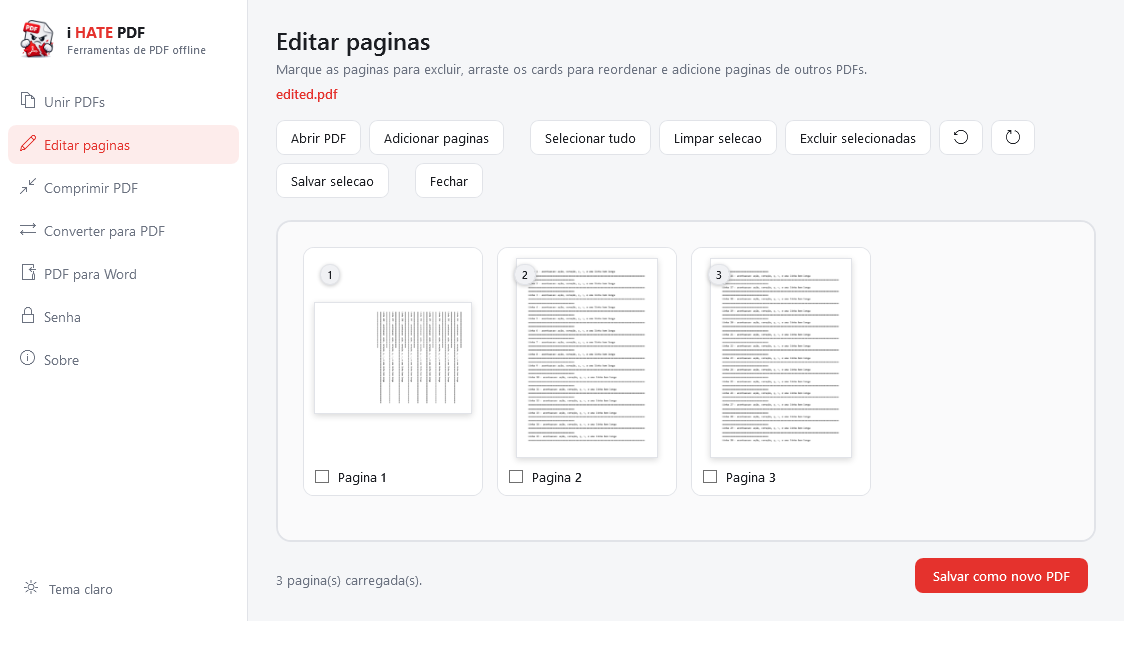
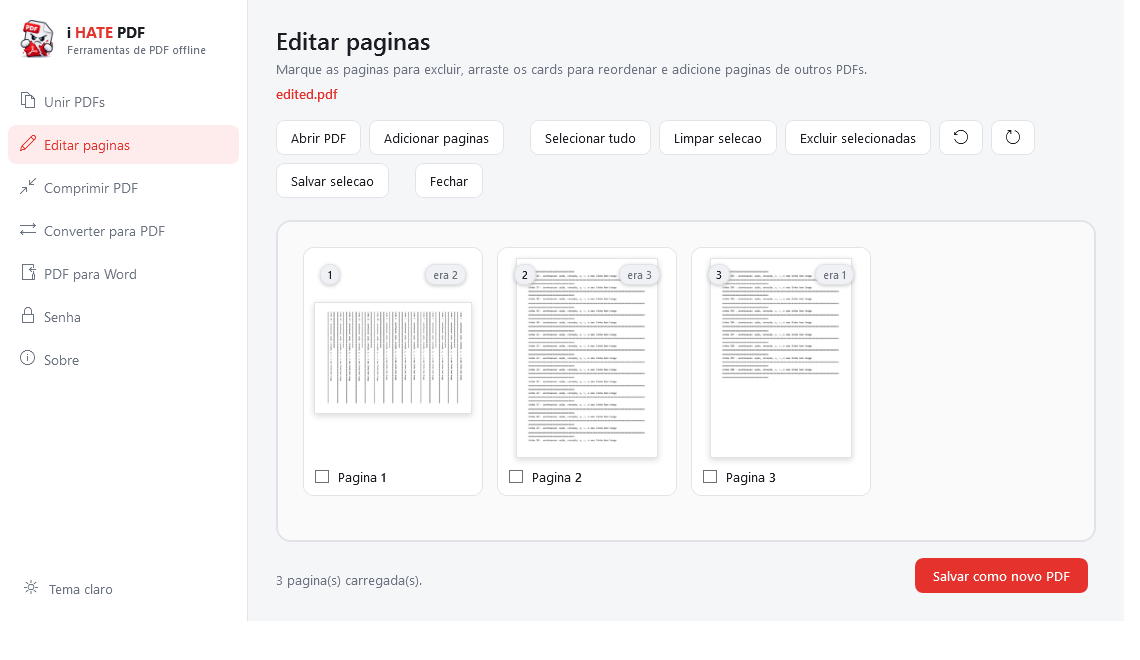
docs: README e capturas refeitos para o estado atual do app
As capturas eram da versao 1.1 e mostravam quatro telas; o app tem sete.
Todas foram refeitas com conteudo real em cada tela (fila carregada,
pagina girada e reordenada, modo album ligado, compressao no modo que
encolhe), mais uma do tema escuro.

O README passa a cobrir o que existe hoje: comprimir com os numeros
medidos, senha, imagens nos dois modos, PDF para imagens, girar e salvar
selecao, menu de contexto, preferencias, instalador e atualizacao
automatica. A lista de armadilhas ganhou as descobertas recentes - giro
somado ao /Rotate existente, o padrao null da ponte do PasswordBox e o
custo de decodificar miniatura de imagem sem DecodePixelWidth.

As capturas rodaram com APPDATA apontando para uma pasta temporaria, para
o harness nao sobrescrever as preferencias reais de quem usa o app.

diff --git a/README.md b/README.md
@@ -4,7 +4,7 @@
 
 ### O PDF começou. Você termina.
 
-Unir, reorganizar e converter PDFs no Windows — **sem upload, sem conta, sem marca d'água**.<br/>
+Sete ferramentas de PDF no Windows — **sem upload, sem conta, sem marca d'água**.<br/>
 Nenhum arquivo sai da sua máquina.
 
 <br/>
@@ -26,43 +26,25 @@ Todo site de PDF grátis cobra o mesmo pedágio: subir seu contrato para o servi
 **i HATE PDF** não tem servidor. É um `.exe`, você arrasta, ele resolve.
 
 <div align="center">
-<img src="docs/screenshots/unir.png" alt="Tela de unir PDFs com capas em grade" width="820" />
+<img src="docs/screenshots/unir.png" alt="Tela de unir PDFs com capas em grade" width="860" />
 </div>
 
 ---
 
-## O que ele faz
-
-<table>
-<tr>
-<td width="33%" valign="top">
+## As ferramentas
 
 ### 🧩 Unir
-Arraste vários PDFs. Cada um vira um **card com a capa visível** e um número que é literalmente a posição dele no documento final. Arrastou o card, mudou a ordem.
 
-</td>
-<td width="33%" valign="top">
+Arraste vários PDFs. Cada um vira um **card com a capa visível** e um selo com a posição dele no documento final. Arrastou o card, mudou a ordem.
 
 ### ✂ Editar páginas
-Abra um PDF e veja **cada página como miniatura**. Marque as que morrem, arraste as que ficam, **gire** as tortas, puxe páginas de outro arquivo. Cada card mostra a **posição nova** e a **original** (`era 3`). **Salvar seleção** grava só as páginas marcadas num arquivo à parte — é assim que se divide um PDF aqui. O original nunca é tocado.
 
-</td>
-<td width="33%" valign="top">
+Abra um PDF e veja **cada página como miniatura**. Marque as que morrem, arraste as que ficam, **gire** as tortas (90° para cada lado), puxe páginas de outro arquivo.
 
-### 🔁 Converter
-`TXT` e **imagens** (JPG, PNG, WEBP, BMP, GIF, TIFF) viram PDF direto — e as imagens podem virar **um arquivo cada ou um PDF único**. No modo PDF único a fila vira uma **grade de miniaturas arrastáveis**, com o número da página em cada card — a ordem que você vê é a ordem do documento.<br/>
-`DOCX` e `XLSX` passam pelo **LibreOffice headless**.
-
-</td>
-</tr>
-</table>
-
-### 🔐 Senha
-
-Coloca senha de abertura (AES-256) ou tira, sempre gerando uma cópia. **Remover exige saber a senha** — o app não quebra proteção, ele regrava sem criptografia para quem já tem acesso.
+Cada card mostra a **posição nova** e a **original** (`era 3`), então dá para conferir a reorganização antes de gravar. **Salvar seleção** grava só as páginas marcadas num arquivo à parte — é assim que se divide um PDF aqui, sem precisar apagar nada. O original nunca é tocado.
 
 <div align="center">
-<img src="docs/screenshots/senha.png" alt="Tela de senha" width="820" />
+<img src="docs/screenshots/editar.png" alt="Editor visual de páginas" width="860" />
 </div>
 
 ### 🗜 Comprimir
@@ -70,7 +52,7 @@ Coloca senha de abertura (AES-256) ou tira, sempre gerando uma cópia. **Remover
 Dois modos, porque não existe um só que sirva para tudo:
 
 - **Otimizar** reescreve o arquivo com os fluxos comprimidos. O texto continua selecionável; o ganho depende de quanto o gerador original desperdiçou.
-- **Reduzir imagens** rasteriza cada página em JPEG (200 / 150 / 110 dpi). É o que realmente encolhe digitalizações — mas o documento **deixa de ter texto selecionável**, e o app avisa antes quantos arquivos da fila perderiam isso.
+- **Reduzir imagens** rasteriza cada página em JPEG (200 / 150 / 110 dpi). É o que realmente encolhe digitalizações — mas o documento **deixa de ter texto selecionável**, e o app conta quantos arquivos da fila perderiam isso e avisa antes.
 
 Medido num PDF de 8 páginas cheias de imagem:
 
@@ -81,24 +63,40 @@ Medido num PDF de 8 páginas cheias de imagem:
 | Reduzir · equilibrada | 776 KB | 100 KB | **87%** |
 | Reduzir · máxima | 776 KB | 60 KB | **92%** |
 
-> Se a cópia não ficar menor que a entrada, o **original é mantido** e o app diz "já estava otimizado" — comprimir nunca devolve um arquivo pior. E a saída sai com sufixo `-comprimido`: seu arquivo original nunca é sobrescrito.
+> Se a cópia não ficar menor que a entrada, o **original é mantido** e o item diz "já estava otimizado" — comprimir nunca devolve um arquivo pior. A saída sai com sufixo `-comprimido`: seu arquivo original nunca é sobrescrito.
 
 <div align="center">
-<img src="docs/screenshots/comprimir.png" alt="Tela de compressão" width="820" />
+<img src="docs/screenshots/comprimir.png" alt="Tela de compressão" width="860" />
 </div>
 
-### 📤 E o caminho de volta: PDF → Word
+### 🔁 Converter para PDF
 
-Recupera o conteúdo de um PDF em `.docx` editável (via Writer do LibreOffice), `.txt` puro (extração nativa com PdfPig) ou **imagens PNG/JPG**, uma por página, numa pasta com o nome do documento. Só o `.docx` depende do LibreOffice.
+`TXT` e **imagens** (JPG, PNG, WEBP, BMP, GIF, TIFF) são convertidos direto pelo app. `DOCX` e `XLSX` passam pelo **LibreOffice headless**, em fila, com o erro de cada arquivo na mão.
 
-> **Honestidade sobre o formato:** o PDF descreve *posições de glifos*, não parágrafos. O texto sai bem; layout complexo — colunas, tabelas, caixas — é reconstruído por aproximação. E um PDF **escaneado não tem texto algum**: viraria um documento vazio, porque este app não faz OCR.
+As imagens podem virar **um arquivo cada ou um PDF único**. No modo PDF único a fila vira uma **grade de miniaturas arrastáveis**, com o número da página em cada card — a ordem que você vê é a ordem do documento.
 
 <div align="center">
-<img src="docs/screenshots/pdf-para-word.png" alt="Tela PDF para Word" width="820" />
+<img src="docs/screenshots/converter.png" alt="Imagens em grade arrastável" width="860" />
 </div>
 
+### 📤 PDF para outros formatos
+
+Um PDF vira `.docx` editável (via Writer do LibreOffice), `.txt` puro (extração nativa com PdfPig) ou **imagens PNG/JPG**, uma por página, numa pasta com o nome do documento. Só o `.docx` depende do LibreOffice.
+
+> **Honestidade sobre o formato:** o PDF descreve *posições de glifos*, não parágrafos. O texto sai bem; layout complexo — colunas, tabelas, caixas — é reconstruído por aproximação. E um PDF **escaneado não tem texto algum**: o app avisa em vez de entregar um arquivo vazio, porque não faz OCR.
+
 <div align="center">
-<img src="docs/screenshots/editar.png" alt="Editor visual de páginas" width="820" />
+<img src="docs/screenshots/pdf-para-word.png" alt="Tela de exportação" width="860" />
+</div>
+
+### 🔐 Senha
+
+Coloca senha de abertura (**AES-256**) ou tira, sempre gerando uma cópia. Confirmação de senha só no modo proteger, onde errar deixaria o arquivo inacessível para sempre.
+
+> **Remover exige saber a senha.** O app não quebra proteção: ele regrava sem criptografia para quem já tem acesso.
+
+<div align="center">
+<img src="docs/screenshots/senha.png" alt="Tela de senha" width="860" />
 </div>
 
 ---
@@ -108,6 +106,12 @@ Recupera o conteúdo de um PDF em `.docx` editável (via Writer do LibreOffice),
 **No menu do botão direito.** A tela **Sobre** liga as entradas do Explorer: *Editar páginas*, *Comprimir* e *Unir* em arquivos PDF, *Converter para PDF* em imagens. O registro é feito em `HKEY_CURRENT_USER` — **sem UAC** — e o mesmo botão desfaz tudo.
 
 **Ele lembra o que você escolheu.** Tema, pastas de saída de cada tela, modo de compressão, formato de exportação: tudo volta como estava, em `%AppData%\IHatePdf\settings.json`. Fica fora da pasta do app de propósito — a atualização automática troca o executável, e configuração ao lado dele se perderia.
+
+**Tema claro e escuro**, alternados no canto inferior esquerdo.
+
+<div align="center">
+<img src="docs/screenshots/tema-escuro.png" alt="O mesmo editor no tema escuro" width="860" />
+</div>
 
 ---
 
@@ -126,20 +130,20 @@ Os dois são **self-contained**: não precisa instalar o .NET.
 
 Instala em `%LocalAppData%\Programs\IHatePdf` — **de propósito**, e não em `Program Files`. Em `Program Files` o app não conseguiria se sobrescrever, e a atualização automática pararia de funcionar. Como consequência, o app instala **sem pedir UAC**.
 
-Durante a instalação ele oferece instalar o **LibreOffice** (necessário para DOCX, XLSX e PDF → Word), baixando a versão estável e rodando em modo silencioso. A tarefa só aparece se o LibreOffice ainda não estiver na máquina. O Windows pede elevação **uma vez** nesse passo — não existe instalação do LibreOffice para todos os usuários sem isso.
+Durante a instalação ele oferece instalar o **LibreOffice**, baixando a versão estável e rodando em modo silencioso. A tarefa só aparece se o LibreOffice ainda não estiver na máquina, e o Windows pede elevação **uma vez** nesse passo.
 
-Se você desmarcar a opção, ou se o download falhar, a instalação do app continua normalmente: o aviso e o botão **"Baixar e instalar LibreOffice"** continuam na tela **PDF para Word** para quando você quiser — inclusive se um dia desinstalar o LibreOffice sem querer.
+Se você desmarcar a opção, ou se o download falhar, a instalação do app continua normalmente: o botão **"Baixar e instalar LibreOffice"** continua na tela **PDF para outros formatos** para quando você quiser — inclusive se um dia desinstalar o LibreOffice sem querer.
 
-> `.txt` **não** precisa de LibreOffice: a extração de texto é nativa. Sem o LibreOffice, tudo funciona menos DOCX/XLSX → PDF e PDF → `.docx`.
+> O LibreOffice é necessário só para **DOCX/XLSX → PDF** e **PDF → .docx**. Todo o resto — unir, editar, comprimir, senha, imagens, `.txt` — funciona sem ele.
 
 ### Atualizar
 
 A tela **Sobre** verifica as releases deste repositório e, se houver versão nova, **atualiza sozinha**: baixa o pacote, se substitui e reabre já na versão nova. Nada de zip para você extrair na mão.
 
-> Um `.exe` em execução não pode sobrescrever a si mesmo, então o app grava um script temporário que espera o processo encerrar, troca o arquivo e reabre. O executável atual vira `.old` antes da cópia e é restaurado se algo falhar no meio. Se o app estiver numa pasta sem permissão de escrita (Program Files, por exemplo), ele avisa e manda você para a página da release em vez de tentar e falhar.
+> Um `.exe` em execução não pode sobrescrever a si mesmo, então o app grava um script temporário que espera o processo encerrar, troca o arquivo e reabre. O executável atual vira `.old` antes da cópia e é restaurado se algo falhar no meio. Se o app estiver numa pasta sem permissão de escrita, ele avisa e manda você para a página da release em vez de tentar e falhar.
 
 <div align="center">
-<img src="docs/screenshots/sobre.png" alt="Tela Sobre com verificação de atualizações" width="820" />
+<img src="docs/screenshots/sobre.png" alt="Tela Sobre" width="860" />
 </div>
 
 ---
@@ -167,36 +171,38 @@ dotnet publish -c Release -r win-x64 --self-contained true -p:PublishSingleFile=
 MVVM estrito com `CommunityToolkit.Mvvm` — nenhuma View tem lógica no code-behind, nem o drag & drop.
 
 ```
-Models/         PageReference, PdfFileItem, PageItem, ConversionItem
-Services/       PdfService · ConversionService (+converters) · PdfCompressionService
-                PdfExportService · ImageToPdfService · PdfSecurityService
-                SettingsService · ShellIntegrationService
-                LibreOfficeRunner · PdfRenderService · WindowsFontResolver
-                GitHubUpdateService · DialogService
-ViewModels/     Main · Merge · Editor · Compress · Converter · PdfToWord
-                Security · About
+Models/         PageReference · PdfFileItem · PageItem
+                ConversionItem · CompressionItem
+Services/       PdfService · ConversionService (+converters)
+                PdfCompressionService · PdfExportService · PdfSecurityService
+                ImageToPdfService · ImageThumbnailService · PdfRenderService
+                LibreOfficeRunner · WindowsFontResolver
+                SettingsService · ShellIntegrationService · GitHubUpdateService
+ViewModels/     Main · Merge · Editor · Compress · Converter
+                PdfToWord · Security · About
 Views/          MergeView · EditorView · CompressView · ConverterView
                 PdfToWordView · SecurityView · AboutView
-Behaviors/      FileDropBehavior (drop do Explorer → ICommand) · conversores
+Behaviors/      FileDropBehavior · PasswordBoxBehavior · conversores
 Themes/         Light · Dark · Styles
 ```
 
 | Peça | Biblioteca | Papel |
 |---|---|---|
-| Estrutura do PDF | [PDFsharp 6](https://www.nuget.org/packages/PDFsharp) | unir, extrair, remover e reordenar páginas |
-| Miniaturas | [PDFtoImage](https://www.nuget.org/packages/PDFtoImage) (PDFium) | renderiza cada página como bitmap |
-| MVVM | [CommunityToolkit.Mvvm](https://www.nuget.org/packages/CommunityToolkit.Mvvm) | bindings, comandos, messenger |
-| Arrastar cards | [gong-wpf-dragdrop](https://www.nuget.org/packages/gong-wpf-dragdrop) | reordenação dentro das listas |
-| DOCX / XLSX | LibreOffice `--headless` | Office → PDF e PDF → Word (`writer_pdf_import`) |
-| Extração de texto | [PdfPig](https://www.nuget.org/packages/PdfPig) | PDF → TXT e detecção de texto, sem dependência externa |
+| Estrutura do PDF | [PDFsharp 6](https://www.nuget.org/packages/PDFsharp) | unir, extrair, remover, reordenar e girar páginas |
 | Senha | PDFsharp (`PdfDefaultEncryption.V5`) | AES-256, sem dependência externa |
-| Recompressão | [SkiaSharp](https://www.nuget.org/packages/SkiaSharp) | reencoda as páginas rasterizadas em JPEG |
+| Miniaturas e rasterização | [PDFtoImage](https://www.nuget.org/packages/PDFtoImage) (PDFium) | renderiza cada página como bitmap |
+| Recompressão de imagem | [SkiaSharp](https://www.nuget.org/packages/SkiaSharp) | decodifica os formatos de entrada e reencoda em JPEG |
+| Extração de texto | [PdfPig](https://www.nuget.org/packages/PdfPig) | PDF → TXT e detecção de texto |
+| MVVM | [CommunityToolkit.Mvvm](https://www.nuget.org/packages/CommunityToolkit.Mvvm) | bindings, comandos, messenger |
+| Arrastar cards | [gong-wpf-dragdrop](https://www.nuget.org/packages/gong-wpf-dragdrop) | reordenação dentro das grades |
+| DOCX / XLSX | LibreOffice `--headless` | Office → PDF e PDF → Word (`writer_pdf_import`) |
+| Instalador | Inno Setup | pacote, atalhos, desinstalador |
 
 **A ideia central:** toda operação de página é a mesma primitiva.
 
 ```csharp
-// deletar, reordenar, inserir e unir sao a mesma coisa:
-// uma lista ordenada de (arquivo, indice de pagina) virando um documento.
+// deletar, reordenar, girar, extrair e unir sao a mesma coisa:
+// uma lista ordenada de (arquivo, indice de pagina, giro) virando um documento.
 await pdfService.BuildAsync(pages.Select(p => p.ToReference()), outputPath);
 ```
 
@@ -205,8 +211,11 @@ Detalhes que custam caro quando ficam de fora:
 - As miniaturas são renderizadas **fora da thread de UI** e chegam com `Freeze()` — sem isso, `InvalidOperationException` no binding.
 - O PDFium é serializado por um semáforo; ele não é reentrante.
 - O PDFsharp 6 **não resolve fontes sozinho**: sem um `IFontResolver`, converter TXT lança `No appropriate font found`.
+- O giro é **somado** ao `/Rotate` que a página já trazia. Substituir viraria a página errada num documento que já vem girado.
 - O LibreOffice **não serve para gerar `.txt`** a partir de PDF: ao importar, ele põe o conteúdo em quadros de texto flutuantes, e o filtro de texto puro exporta só o corpo do documento — o arquivo saía **vazio**. Por isso o TXT é extraído com PdfPig.
-- O LibreOffice roda com **perfil temporário próprio** (`-env:UserInstallation=`), senão execuções seguidas travam no lock do perfil. E o `soffice` retorna 0 mesmo em algumas falhas, então a saída é validada pela existência do PDF.
+- O LibreOffice roda com **perfil temporário próprio** (`-env:UserInstallation=`), senão execuções seguidas travam no lock do perfil. E o `soffice` retorna 0 mesmo em algumas falhas, então a saída é validada pela existência do arquivo.
+- O `PasswordBox` não expõe `Password` como propriedade bindável. A ponte usa uma propriedade anexada cujo valor padrão é `null` — com `string.Empty`, ela nunca "mudaria" em relação ao ViewModel, o callback não rodaria e o campo aceitaria digitação sem nunca avisar ninguém.
+- As miniaturas de imagem usam `DecodePixelWidth` e `CacheOption.OnLoad`: sem o primeiro, uma foto de 12 MP viraria bitmap inteiro na memória; sem o segundo, o arquivo ficaria travado enquanto estivesse na fila.
 
 ---
 
@@ -214,7 +223,7 @@ Detalhes que custam caro quando ficam de fora:
 
 - Operações de página copiam o conteúdo: **anotações, campos de formulário e sumário (outlines) não são preservados**.
 - PDFs protegidos só são lidos pelas outras telas depois de passarem pela tela **Senha**.
-- **PDF → Word não faz OCR**: PDF escaneado (imagem pura) não tem texto para extrair.
+- **Não há OCR**: PDF escaneado (imagem pura) não tem texto para extrair.
 - Windows apenas. WPF não é multiplataforma.
 
 ---
